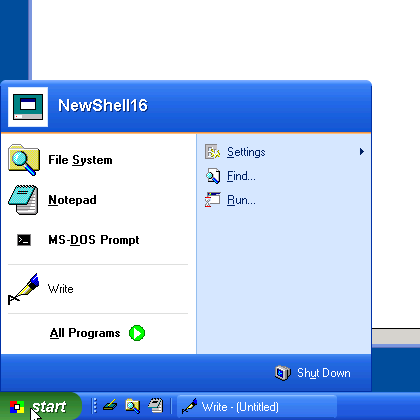
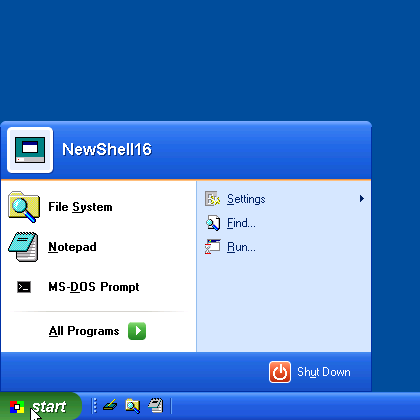
XP Start menu: keep submenus open after a click, closer Windows XP look
- Submenus (All Programs, Settings...) open when the mouse button is
  released; opened on the press, Windows 3.1 closed them again on the
  release. The hover timer waits while a button is down.
- Submenus open above the taskbar; All Programs goes up from the bottom
  of the panel as in Windows XP (SmMenuHeight).
- XP look: a green rounded-square arrow for All Programs, a taller header
  with a framed user picture, Log Off and Shut Down icons in the XP
  colours, separators that fade out at both ends (luna.c).
- The 16-colour All Programs arrow is a rounded square too.

Claude-Session: https://claude.ai/code/session_01CCQKUZPStrcgXpZ5fnS1gV

diff --git a/src/startxp.c b/src/startxp.c
@@ -68,12 +68,14 @@
 
 #define XP_LEFT_W       196
 #define XP_RIGHT_W      176
-#define XP_HEAD_H       54
-#define XP_FOOT_H       38
+#define XP_HEAD_H       60
+#define XP_FOOT_H       40
 #define XP_ROW_L        40      /* left column: 32x32 icons */
 #define XP_ROW_R        24      /* right column: 16x16 icons */
 #define XP_SEP_H        9
 #define XP_ALL_H        30
+#define XP_ARROW        18      /* the green arrow of All Programs (XP look) */
+#define XP_FOOT_ICON    22      /* the icons of Log Off and Shut Down (XP look) */
 #define XP_PAD          6
 #define XP_MAXE         64
 #define TIMER_HOVER     1
@@ -116,6 +118,7 @@ static XPENTRY *s_e;
 static int      s_nE;
 static HWND     s_hwnd, s_hwndOwner;
 static int      s_nHot = -1;
+static int      s_nNoOpen = -1; /* its submenu was closed by this press */
 static BOOL     s_bDone, s_bInSub, s_bLuna, s_b11;
 static int      s_yRecLabel;    /* Windows 11: where "Recommended" goes */
 static BOOL     s_bNoRecent;
@@ -220,9 +223,14 @@ static int AddItems(HMENU hMenu, int nCol, BOOL bBold, int y, int x0, int cx, BO
     return y - y0;
 }
 
+static int FootIcon(void)
+{
+    return s_bLuna ? XP_FOOT_ICON : 16;
+}
+
 static int FootButtonWidth(HDC hdc, LPCSTR lpText)
 {
-    return 4 + 16 + 6 + TextWidth(hdc, lpText) + 8;
+    return 4 + FootIcon() + 6 + TextWidth(hdc, lpText) + 8;
 }
 
 static void Layout(void)
@@ -547,7 +555,7 @@ static void PaintHeader(HDC hdc)
     HICON hIcon = LoadIcon(g_hInst, MAKEINTRESOURCE(IDI_NEWSHELL));
     RECT rc;
     HFONT hfOld;
-    int y = (XP_HEAD_H - 40) / 2;
+    int y = (XP_HEAD_H - 2 - 46) / 2;
 
     if (s_bLuna) {
         LunaDrawPanelBar(hdc, &s_rcHead, TRUE);
@@ -557,17 +565,27 @@ static void PaintHeader(HDC hdc)
     } else
         ClassicBar(hdc, &s_rcHead);
 
-    /* the "user picture": the NewShell16 icon on a white tile */
-    SetRect(&rc, 8, y, 8 + 40, y + 40);
-    FillSolid(hdc, &rc, s_bLuna ? RGB(214, 228, 248) : GetSysColor(COLOR_BTNHIGHLIGHT));
-    InflateRect(&rc, -1, -1);
-    FillSolid(hdc, &rc, RGB(255, 255, 255));
+    /* the "user picture": the NewShell16 icon on a tile, in Windows XP
+       with a white rounded frame and a shadow */
+    SetRect(&rc, 7, y, 7 + 46, y + 46);
+    if (s_bLuna) {
+        OffsetRect(&rc, 1, 1);
+        LunaRoundRect(hdc, &rc, 5, RGB(18, 62, 160));
+        OffsetRect(&rc, -1, -1);
+        LunaRoundRect(hdc, &rc, 5, RGB(255, 255, 255));
+        InflateRect(&rc, -3, -3);
+        LunaRoundRect(hdc, &rc, 2, RGB(224, 236, 252));
+    } else {
+        FillSolid(hdc, &rc, GetSysColor(COLOR_BTNHIGHLIGHT));
+        InflateRect(&rc, -1, -1);
+        FillSolid(hdc, &rc, RGB(255, 255, 255));
+    }
     if (hIcon)
-        DrawIcon(hdc, rc.left + 3, rc.top + 3, hIcon);
+        DrawIcon(hdc, 7 + 7, y + 7, hIcon);
 
     SetBkMode(hdc, TRANSPARENT);
     hfOld = SelectObject(hdc, s_hfName ? s_hfName : SmFont(TRUE));
-    SetRect(&rc, 58, 0, s_cx - 6, XP_HEAD_H - 2);
+    SetRect(&rc, 62, 0, s_cx - 6, XP_HEAD_H - 2);
     if (s_bLuna) {
         OffsetRect(&rc, 1, 1);
         DrawText1(hdc, s_szName, &rc, RGB(12, 50, 130), DT_LEFT | DT_NOPREFIX);
@@ -602,9 +620,11 @@ static void PaintEntry(HDC hdc, int i)
     if (e->bKind == XE_SEP) {
         int y = rc.top + XP_SEP_H / 2;
 
-        if (s_bLuna)
-            HLine(hdc, rc.left + 8, rc.right - 8, y,
-                  e->bCol == COL_RIGHT ? RGB(149, 189, 236) : RGB(222, 222, 222));
+        if (s_bLuna && e->bCol == COL_RIGHT)
+            HLine(hdc, rc.left + 8, rc.right - 8, y, RGB(149, 189, 236));
+        else if (s_bLuna)
+            LunaDrawFadeLine(hdc, rc.left + 4, rc.right - 4, y, RGB(208, 208, 200),
+                             LeftFace());
         else {
             HLine(hdc, rc.left + 6, rc.right - 6, y - 1, GetSysColor(COLOR_BTNSHADOW));
             HLine(hdc, rc.left + 6, rc.right - 6, y, GetSysColor(COLOR_BTNHIGHLIGHT));
@@ -622,10 +642,14 @@ static void PaintEntry(HDC hdc, int i)
             else
                 Draw3DEdge(hdc, &rc, FALSE, FALSE);
         }
-        DrawSmallImage(hdc, rc.left + 4, rc.top + (rc.bottom - rc.top - 16) / 2,
-                       e->bKind == XE_LOGOFF ? SMI_LOGOFF : SMI_SHUTDOWN);
+        if (s_bLuna)
+            LunaDrawFootIcon(hdc, rc.left + 4, rc.top + (rc.bottom - rc.top - XP_FOOT_ICON) / 2,
+                             XP_FOOT_ICON, e->bKind == XE_SHUTDOWN);
+        else
+            DrawSmallImage(hdc, rc.left + 4, rc.top + (rc.bottom - rc.top - 16) / 2,
+                           e->bKind == XE_LOGOFF ? SMI_LOGOFF : SMI_SHUTDOWN);
         hfOld = SelectObject(hdc, SmFont(FALSE));
-        SetRect(&rcText, rc.left + 26, rc.top, rc.right, rc.bottom);
+        SetRect(&rcText, rc.left + 4 + FootIcon() + 6, rc.top, rc.right, rc.bottom);
         DrawText1(hdc, lpText, &rcText, TextColor(COL_FOOT, FALSE), DT_LEFT);
         SelectObject(hdc, hfOld);
         SetBkMode(hdc, nOldMode);
@@ -640,15 +664,19 @@ static void PaintEntry(HDC hdc, int i)
 
     if (e->bKind == XE_ALL) {
         static const char szAll[] = "&All Programs";
-        int cx, x;
+        int cxArrow = s_bLuna ? XP_ARROW : 16, cx, x;
 
         hfOld = SelectObject(hdc, SmFont(TRUE));
-        cx = TextWidth(hdc, "All Programs") + 8 + 16;
+        cx = TextWidth(hdc, "All Programs") + 8 + cxArrow;
         x = rc.left + (rc.right - rc.left - cx) / 2;
         SetRect(&rcText, x, rc.top, x + cx, rc.bottom);
         DrawText1(hdc, szAll, &rcText, TextColor(COL_LEFT, bSel), DT_LEFT);
-        DrawSmallImage(hdc, x + cx - 16, rc.top + (rc.bottom - rc.top - 16) / 2,
-                       SMI_ALLPROGRAMS);
+        if (s_bLuna)
+            LunaDrawArrowButton(hdc, x + cx - cxArrow, rc.top + (rc.bottom - rc.top - cxArrow) / 2,
+                                cxArrow);
+        else
+            DrawSmallImage(hdc, x + cx - 16, rc.top + (rc.bottom - rc.top - 16) / 2,
+                           SMI_ALLPROGRAMS);
         SelectObject(hdc, hfOld);
         SetBkMode(hdc, nOldMode);
         return;
@@ -799,15 +827,24 @@ static void OpenSubmenu(int i)
     POINT pt;
     MSG msg;
     RECT rcWin;
+    BOOL bDown;
+    int cy;
 
     KillTimer(s_hwnd, TIMER_HOVER);
     if (!hMenu)
         return;
     SetHot(i);
     KillTimer(s_hwnd, TIMER_HOVER);
+    /* beside the entry, but above the taskbar (the bottom of the panel):
+       All Programs goes up from there as in Windows XP */
     pt.x = s_e[i].rc.right - 2;
     pt.y = s_e[i].rc.top;
+    cy = SmMenuHeight(hMenu) + 2 * GetSystemMetrics(SM_CYBORDER) + 4;
+    if (!s_b11 && pt.y > s_cy - cy)
+        pt.y = s_cy - cy;
     ClientToScreen(s_hwnd, &pt);
+    if (pt.y < 0)
+        pt.y = 0;
     if (GetCapture() == s_hwnd)
         ReleaseCapture();
     s_bInSub = TRUE;
@@ -820,11 +857,15 @@ static void OpenSubmenu(int i)
     /* closed by a click outside the menu and the panel: close the panel too */
     GetCursorPos(&pt);
     GetWindowRect(s_hwnd, &rcWin);
-    if (!PtInRect(&rcWin, pt) && (GetAsyncKeyState(VK_LBUTTON) < 0
-                                  || GetAsyncKeyState(VK_RBUTTON) < 0)) {
+    bDown = GetAsyncKeyState(VK_LBUTTON) < 0 || GetAsyncKeyState(VK_RBUTTON) < 0;
+    if (!PtInRect(&rcWin, pt) && bDown) {
         Close(0);
         return;
     }
+    /* closed by a click on its own entry: the release must not open it
+       again (a second click closes the submenu, as in a menu bar) */
+    ScreenToClient(s_hwnd, &pt);
+    s_nNoOpen = bDown && HitTest(pt.x, pt.y) == i ? i : -1;
     SetCapture(s_hwnd);
 }
 
@@ -1016,22 +1057,34 @@ LRESULT CALLBACK NSEXPORT StartXPWndProc(HWND hwnd, UINT msg, WPARAM wParam, LPA
             Close(0);       /* a click outside, also on the Start button */
             return 0;
         }
-        i = HitTest(pt.x, pt.y);
-        SetHot(i);
-        if (OpensMenu(i))
-            OpenSubmenu(i);
+        s_nNoOpen = -1;
+        SetHot(HitTest(pt.x, pt.y));
         return 0;
 
     case WM_LBUTTONUP:
-        /* runs the item under the mouse; the release of the press that
-           opened the menu (on the Start button) is outside and ignored */
+    case WM_RBUTTONUP:
+        /* runs the item under the mouse or opens its submenu, on the
+           release: a submenu opened while the button is down would close
+           when it is released. The release of the press that opened the
+           panel (on the Start button) is outside and ignored. */
         i = HitTest((int)(short)LOWORD(lParam), (int)(short)HIWORD(lParam));
-        if (i >= 0 && !OpensMenu(i))
+        if (i >= 0 && i == s_nNoOpen)
+            i = -1;
+        s_nNoOpen = -1;
+        if (OpensMenu(i))
+            OpenSubmenu(i);
+        else if (i >= 0 && msg == WM_LBUTTONUP)
             Activate(i);
         return 0;
 
     case WM_TIMER:
         KillTimer(hwnd, TIMER_HOVER);
+        if (GetAsyncKeyState(VK_LBUTTON) < 0 || GetAsyncKeyState(VK_RBUTTON) < 0) {
+            /* not while a button is down (see WM_LBUTTONUP) */
+            if (OpensMenu(s_nHot))
+                SetTimer(hwnd, TIMER_HOVER, HOVER_MS, NULL);
+            return 0;
+        }
         if (OpensMenu(s_nHot)) {
             GetCursorPos(&pt);
             ScreenToClient(hwnd, &pt);
@@ -1190,6 +1243,7 @@ void StartXPShow(HWND hwndOwner, int x, int y, BOOL b11)
     }
 
     s_nHot = -1;
+    s_nNoOpen = -1;
     s_bDone = FALSE;
     s_bInSub = FALSE;
     s_uCmd = 0;

diff --git a/src/luna.c b/src/luna.c
@@ -439,3 +439,103 @@ void LunaDrawQuickButton(HDC hdc, const RECT FAR *lprc, BOOL bDown)
 {
     LunaDrawTask(hdc, lprc, bDown);
 }
+
+/* -------------------------------------------------------------------- */
+/* The two-column Start menu                                            */
+/* -------------------------------------------------------------------- */
+
+static const LSTOP s_stArrow[] = {
+    {   0, 132, 214, 112 }, {  90,  78, 182,  66 }, { 255,  38, 132,  38 }
+};
+static const LSTOP s_stLogOff[] = {
+    {   0, 255, 222, 110 }, { 110, 248, 178,  50 }, { 255, 214, 118,  18 }
+};
+static const LSTOP s_stPower[] = {
+    {   0, 255, 150, 110 }, { 110, 236,  86,  46 }, { 255, 186,  44,  18 }
+};
+
+/* A white triangle pointing right, cy high (odd), its tip at x + cy / 2 */
+static void Triangle(HDC hdc, int x, int y, int cy, COLORREF clr)
+{
+    int i, h = cy / 2;
+
+    for (i = 0; i <= h; i++)
+        Line(hdc, x + i, y + i, x + i + 1, y + cy - i, clr);
+}
+
+/* A rounded square button in a gradient with a white rim */
+static void Tile(HDC hdc, const RECT FAR *lprc, const LSTOP *lpst, int nst)
+{
+    RECT rc = *lprc;
+
+    LunaRoundRect(hdc, &rc, 4, RGB(255, 255, 255));
+    InflateRect(&rc, -1, -1);
+    Shape(hdc, &rc, lpst, nst, 3, LC_TL | LC_TR | LC_BL | LC_BR);
+}
+
+/* The green arrow of All Programs: a rounded square, cx wide */
+void LunaDrawArrowButton(HDC hdc, int x, int y, int cx)
+{
+    RECT rc;
+    int cyTri = (cx / 2) | 1;
+
+    SetRect(&rc, x, y, x + cx, y + cx);
+    Shape(hdc, &rc, s_stArrow, NSTOPS(s_stArrow), 4, LC_TL | LC_TR | LC_BL | LC_BR);
+    /* a lighter rim at the top */
+    Line(hdc, x + 3, y, x + cx - 3, y + 1, RGB(178, 234, 160));
+    Triangle(hdc, x + (cx - cyTri / 2) / 2 + 1, y + (cx - cyTri) / 2, cyTri,
+             RGB(255, 255, 255));
+}
+
+/* The icons of Log Off (an arrow out of a door) and Shut Down (the power
+   symbol) in the footer, cx x cx */
+void LunaDrawFootIcon(HDC hdc, int x, int y, int cx, BOOL bPower)
+{
+    RECT rc;
+    COLORREF clrW = RGB(255, 255, 255);
+    int m = x + cx / 2, c = y + cx / 2;
+
+    SetRect(&rc, x, y, x + cx, y + cx);
+    if (bPower) {
+        HPEN hpen = CreatePen(PS_SOLID, 2, clrW), hpOld;
+        HBRUSH hbOld;
+        int r = cx * 5 / 16;
+
+        Tile(hdc, &rc, s_stPower, NSTOPS(s_stPower));
+        hpOld = SelectObject(hdc, hpen);
+        hbOld = SelectObject(hdc, GetStockObject(NULL_BRUSH));
+        Ellipse(hdc, m - r, c - r + 1, m + r + 1, c + r + 2);
+        SelectObject(hdc, hbOld);
+        SelectObject(hdc, hpOld);
+        DeleteObject(hpen);
+        /* the gap at the top of the ring, and the bar through it */
+        Line(hdc, m - 2, c - r - 1, m + 3, c - 1, StopColor(s_stPower, NSTOPS(s_stPower),
+                                                            cx / 4, cx));
+        Line(hdc, m, c - r - 2, m + 2, c + 1, clrW);
+    } else {
+        int cyTri = (cx / 2) | 1;
+
+        Tile(hdc, &rc, s_stLogOff, NSTOPS(s_stLogOff));
+        /* the door: an open frame on the left */
+        Line(hdc, x + 4, y + 4, x + 6, y + cx - 4, clrW);
+        Line(hdc, x + 4, y + 4, x + cx / 2, y + 6, clrW);
+        Line(hdc, x + 4, y + cx - 6, x + cx / 2, y + cx - 4, clrW);
+        /* the arrow out of it */
+        Line(hdc, x + 8, c - 1, x + cx - 4 - cyTri / 2, c + 1, clrW);
+        Triangle(hdc, x + cx - 4 - cyTri / 2, c - cyTri / 2, cyTri, clrW);
+    }
+}
+
+/* A horizontal line that fades into clrFace towards both ends */
+void LunaDrawFadeLine(HDC hdc, int x0, int x1, int y, COLORREF clr, COLORREF clrFace)
+{
+    int cx = x1 - x0, cxFade = cx / 4, x;
+
+    if (cx <= 0)
+        return;
+    for (x = 0; x < cx; x += 2) {
+        int d = x < cx - x ? x : cx - x, n = cxFade > 0 && d < cxFade ? d * 16 / cxFade : 16;
+
+        Line(hdc, x0 + x, y, x0 + x + 2, y + 1, Blend(clrFace, clr, n));
+    }
+}

diff --git a/src/newshell.h b/src/newshell.h
@@ -140,6 +140,9 @@ COLORREF LunaBannerColor(int y, int cy);
 void LunaDrawSeparator(HDC hdc, const RECT FAR *lprc);
 void LunaDrawPanelBar(HDC hdc, const RECT FAR *lprc, BOOL bTop);
 void LunaDrawQuickButton(HDC hdc, const RECT FAR *lprc, BOOL bDown);
+void LunaDrawArrowButton(HDC hdc, int x, int y, int cx);
+void LunaDrawFootIcon(HDC hdc, int x, int y, int cx, BOOL bPower);
+void LunaDrawFadeLine(HDC hdc, int x0, int x1, int y, COLORREF clr, COLORREF clrFace);
 
 /* ---- util.c ---------------------------------------------------------- */
 void FillSolid(HDC hdc, const RECT FAR *lprc, COLORREF clr);
@@ -257,6 +260,7 @@ HMENU SmBuild(LPCSTR lpSection, BOOL bTop);
 HMENU SmBuildPinned(void);
 HMENU SmBuildRecent(void);
 int   SmItems(HMENU hMenu, int FAR *lpn, int nMax);
+int   SmMenuHeight(HMENU hMenu);
 LPCSTR SmText(int n);
 UINT  SmFlags(int n);
 HMENU SmSubmenu(int n);

diff --git a/tools/mkicons.py b/tools/mkicons.py
@@ -144,8 +144,9 @@ def log_off(n):
 def all_programs(n):
     """The arrow of All Programs in the two-column Start menu (16x16)."""
     img, d = canvas(n)
-    d.ellipse([0, 0, 15, 15], fill=GREEN, outline=DGREEN)
-    d.polygon([(5, 3), (11, 8), (5, 13)], fill=WHITE)
+    d.rounded_rectangle([0, 0, 15, 15], radius=3, fill=DGREEN, outline=DGREEN)
+    d.rounded_rectangle([1, 1, 14, 7], radius=2, fill=GREEN)
+    d.polygon([(6, 4), (10, 8), (6, 12)], fill=WHITE)
     return img
 
 

diff --git a/src/startmnu.c b/src/startmnu.c
@@ -662,6 +662,16 @@ int SmItems(HMENU hMenu, int FAR *lpn, int nMax)
     return n;
 }
 
+/* The height of the popup menu hMenu (without its frame) */
+int SmMenuHeight(HMENU hMenu)
+{
+    int idx[64], i, n = SmItems(hMenu, idx, 64), cy = 0;
+
+    for (i = 0; i < n; i++)
+        cy += ItemHeight(&s_lpItems[idx[i]]);
+    return cy;
+}
+
 LPCSTR SmText(int n)
 {
     return s_lpItems[n].szText;

diff --git a/docs/design.md b/docs/design.md
@@ -195,6 +195,12 @@ and the keyboard (arrows move in a column, Left/Right change columns,
 Enter, Esc, mnemonics). Submenus (All Programs, Settings...) are the
 ordinary owner-drawn popup menus of the classic Start menu, opened by a
 click, the Right key or after resting the mouse on the item for a moment.
+A click opens them when the button is released (a popup menu opened while
+the button is down would close again on the release), and they open above
+the taskbar, All Programs upwards from the bottom of the panel as in
+Windows XP. With the XP look the green arrow of All Programs, the user
+picture's frame and the icons of Log Off and Shut Down are drawn in
+`luna.c`, in true colour.
 The command chosen is posted to the taskbar after the window is gone.
 Without the XP look the menu uses the system colours (caption gradient,
 window and Start menu colours), like the classic style of Windows XP.
